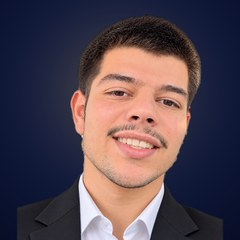
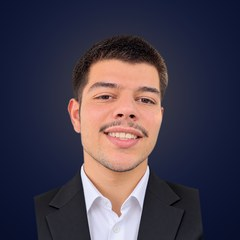
Founder: straighter, smaller portrait; name beside photo
Claude-Session: https://claude.ai/code/session_01SujBwQLXHPJ5qKRm9GSso8

diff --git a/index.html b/index.html
@@ -365,6 +365,7 @@ footer{border-top:1px solid var(--line);padding-block:26px 34px;display:flex;jus
 @supports (animation-timeline:view()){.reveal{animation:up linear both;animation-timeline:view();animation-range:entry 0% entry 35%}}
 @media (prefers-reduced-motion:reduce){*,*::before,*::after{animation:none!important;transition:none!important}html{scroll-behavior:auto}}
 .vn{display:flex;align-items:center;gap:10px}.vplay{width:36px;height:36px;border-radius:50%;border:0;background:var(--surface,#fff);color:var(--fg,#0F1D4A);display:grid;place-items:center;cursor:pointer;flex:none}.vplay svg{width:16px;height:16px;fill:currentColor}.vtime{font-variant-numeric:tabular-nums;font-weight:700}
+.founder{grid-template-columns:1fr!important}.fhead{display:flex;align-items:center;gap:16px}.fhead .avatar.ph{width:96px;height:96px;border-radius:24px;flex:none}@media (min-width:700px){.fhead .avatar.ph{width:120px;height:120px}}
 .avatar.ph{padding:0;overflow:hidden;background:#0F1D4A}.avatar.ph img{width:100%;height:100%;object-fit:cover;display:block}
 </style>
 <script>try{if("scrollRestoration" in history)history.scrollRestoration="manual";var B=/bot|crawl|spider|slurp|google|bing|yandex|lighthouse/i.test(navigator.userAgent);var L=B?"ar":localStorage.getItem("lang");if(L==="en")location.replace("/en/");else if(!L){var n=(navigator.languages&&navigator.languages[0])||navigator.language||"ar";if(!/^ar/i.test(n))location.replace("/en/")}var T=localStorage.getItem("theme");if(T==="dark"||T==="light")document.documentElement.dataset.theme=T}catch(e){}</script>
@@ -513,10 +514,10 @@ footer{border-top:1px solid var(--line);padding-block:26px 34px;display:flex;jus
   <section class="sec reveal" id="who">
     <div class="sec-head"><span class="label">المؤسس</span><h2>خبرة من الميدان، مو من الكتب</h2></div>
     <div class="founder">
-      <div class="avatar ph"><img src="/img/ali-240.jpg" srcset="/img/ali-240.jpg 240w, /img/ali.jpg 600w" sizes="120px" alt="علي الجنابي، مؤسس Janabi AI" width="240" height="240" loading="lazy"></div>
+      <div class="fhead"><div class="avatar ph"><img src="/img/ali-240.jpg" srcset="/img/ali-240.jpg 240w, /img/ali.jpg 600w" sizes="120px" alt="علي الجنابي، مؤسس Janabi AI" width="240" height="240" loading="lazy"></div><div><h3><a href="/ali/" style="color:inherit;text-decoration:none">علي الجنابي</a></h3>
+        <span class="role">مؤسس Janabi AI</span></div></div>
       <div>
-        <h3><a href="/ali/" style="color:inherit;text-decoration:none">علي الجنابي</a></h3>
-        <span class="role">مؤسس Janabi AI</span>
+        
         <p>كل مرحلة بحياتي علمتني شي يفيد مشروعك: المطبعة علمتني الجودة والتفاصيل، والسياحة علمتني أفهم الناس وأحل مشاكلهم، وشركتي علمتني شلون يمشي الشغل من جوه. واليوم أحط كل هذا ويا الذكاء الاصطناعي، حتى أبنيلك حلول تختصر وكتك وتقلل كلفتك.</p>
         <div class="tl">
           <details><summary><b>2017</b>إدارة مطبعة</summary><p>بديت مصمم بمطبعة ببغداد، وبعدها صرت أدير المطبعة كلها: التصميم، والطباعة واللافتات، وصيانة الأجهزة، والحسابات. هناك تعلمت إن التفصيلة الصغيرة هي اللي تفرق بين شغل عادي وشغل يتذكره الزبون.</p></details>

diff --git a/v2/index.html b/v2/index.html
@@ -365,6 +365,7 @@ footer{border-top:1px solid var(--line);padding-block:26px 34px;display:flex;jus
 @supports (animation-timeline:view()){.reveal{animation:up linear both;animation-timeline:view();animation-range:entry 0% entry 35%}}
 @media (prefers-reduced-motion:reduce){*,*::before,*::after{animation:none!important;transition:none!important}html{scroll-behavior:auto}}
 .vn{display:flex;align-items:center;gap:10px}.vplay{width:36px;height:36px;border-radius:50%;border:0;background:var(--surface,#fff);color:var(--fg,#0F1D4A);display:grid;place-items:center;cursor:pointer;flex:none}.vplay svg{width:16px;height:16px;fill:currentColor}.vtime{font-variant-numeric:tabular-nums;font-weight:700}
+.founder{grid-template-columns:1fr!important}.fhead{display:flex;align-items:center;gap:16px}.fhead .avatar.ph{width:96px;height:96px;border-radius:24px;flex:none}@media (min-width:700px){.fhead .avatar.ph{width:120px;height:120px}}
 .avatar.ph{padding:0;overflow:hidden;background:#0F1D4A}.avatar.ph img{width:100%;height:100%;object-fit:cover;display:block}
 </style>
 <script>try{if("scrollRestoration" in history)history.scrollRestoration="manual";var T=localStorage.getItem("theme");if(T==="dark"||T==="light")document.documentElement.dataset.theme=T}catch(e){}</script>
@@ -513,10 +514,10 @@ footer{border-top:1px solid var(--line);padding-block:26px 34px;display:flex;jus
   <section class="sec reveal" id="who">
     <div class="sec-head"><span class="label">المؤسس</span><h2>خبرة من الميدان، مو من الكتب</h2></div>
     <div class="founder">
-      <div class="avatar ph"><img src="/img/ali-240.jpg" srcset="/img/ali-240.jpg 240w, /img/ali.jpg 600w" sizes="120px" alt="علي الجنابي، مؤسس Janabi AI" width="240" height="240" loading="lazy"></div>
+      <div class="fhead"><div class="avatar ph"><img src="/img/ali-240.jpg" srcset="/img/ali-240.jpg 240w, /img/ali.jpg 600w" sizes="120px" alt="علي الجنابي، مؤسس Janabi AI" width="240" height="240" loading="lazy"></div><div><h3><a href="/ali/" style="color:inherit;text-decoration:none">علي الجنابي</a></h3>
+        <span class="role">مؤسس Janabi AI</span></div></div>
       <div>
-        <h3><a href="/ali/" style="color:inherit;text-decoration:none">علي الجنابي</a></h3>
-        <span class="role">مؤسس Janabi AI</span>
+        
         <p>كل مرحلة بحياتي علمتني شي يفيد مشروعك: المطبعة علمتني الجودة والتفاصيل، والسياحة علمتني أفهم الناس وأحل مشاكلهم، وشركتي علمتني شلون يمشي الشغل من جوه. واليوم أحط كل هذا ويا الذكاء الاصطناعي، حتى أبنيلك حلول تختصر وكتك وتقلل كلفتك.</p>
         <div class="tl">
           <details><summary><b>2017</b>إدارة مطبعة</summary><p>بديت مصمم بمطبعة ببغداد، وبعدها صرت أدير المطبعة كلها: التصميم، والطباعة واللافتات، وصيانة الأجهزة، والحسابات. هناك تعلمت إن التفصيلة الصغيرة هي اللي تفرق بين شغل عادي وشغل يتذكره الزبون.</p></details>
